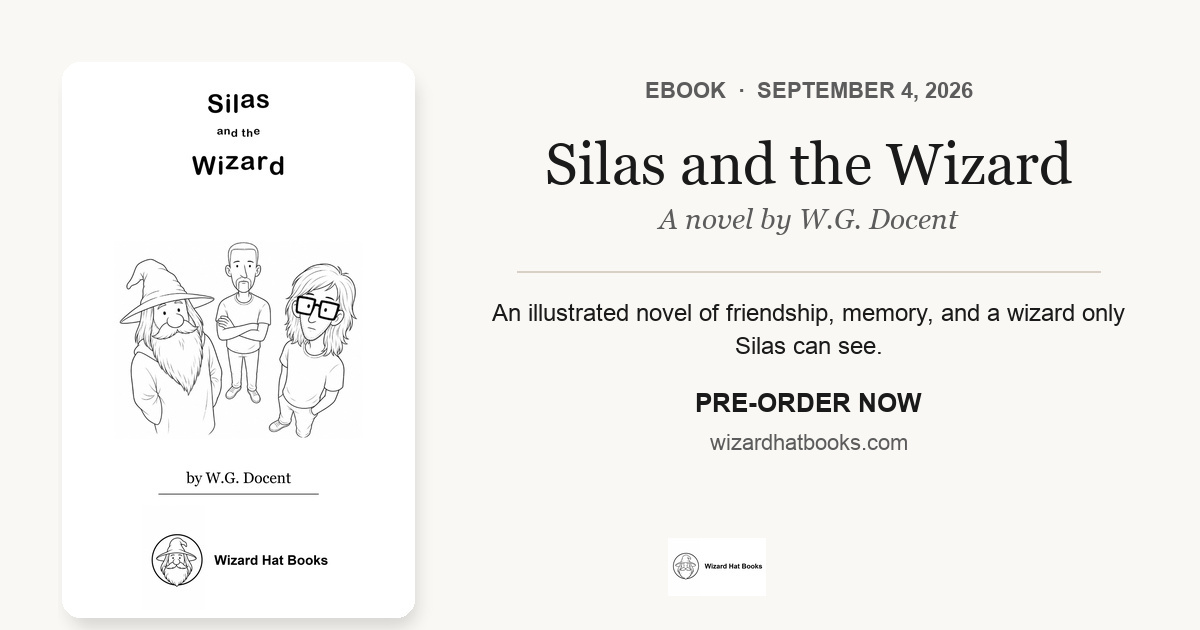
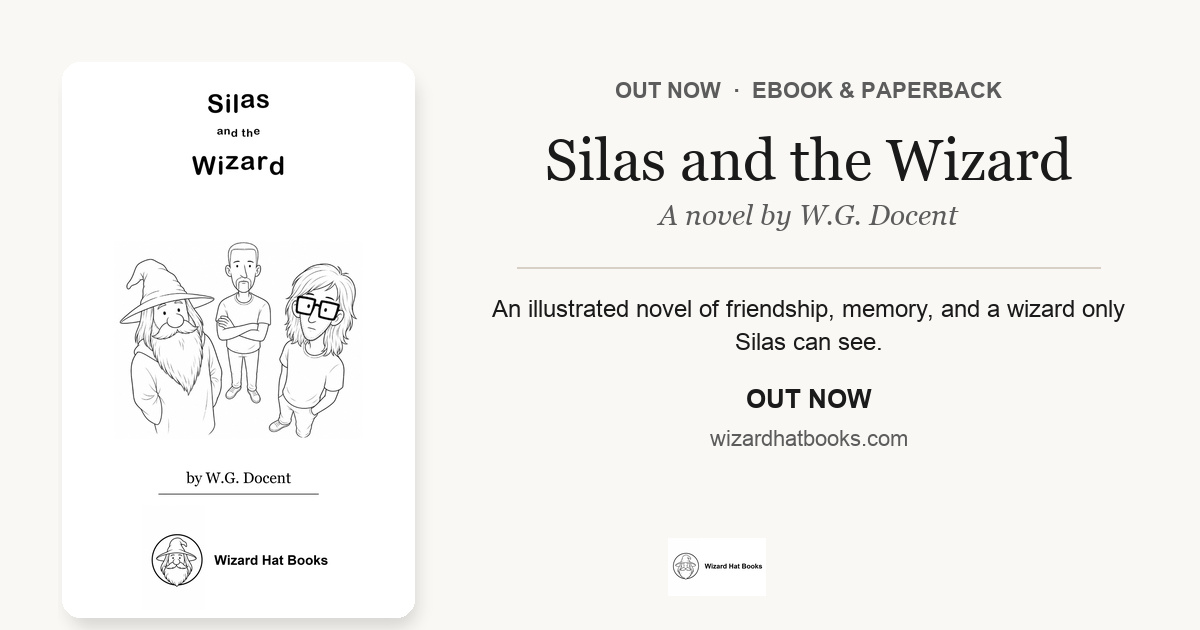
Update the site for the live ebook and paperback.

diff --git a/book.html b/book.html
@@ -3,19 +3,19 @@
 <head>
   <meta charset="UTF-8">
   <meta name="viewport" content="width=device-width, initial-scale=1.0">
-  <title>Silas and the Wizard — ebook September 4, 2026</title>
-  <meta name="description" content="Silas and the Wizard: illustrated literary fiction by W.G. Docent. Ebook September 4, 2026. Pre-order now on Amazon.">
+  <title>Silas and the Wizard — out now</title>
+  <meta name="description" content="Silas and the Wizard: illustrated literary fiction by W.G. Docent. Ebook and paperback out now on Amazon.">
   <link rel="canonical" href="https://www.wizardhatbooks.com/book.html">
-  <meta property="og:title" content="Silas and the Wizard — ebook September 4, 2026">
-  <meta property="og:description" content="An illustrated novel by W.G. Docent. Ebook September 4, 2026. Pre-order now.">
+  <meta property="og:title" content="Silas and the Wizard — out now">
+  <meta property="og:description" content="An illustrated novel by W.G. Docent. Ebook and paperback out now on Amazon.">
   <meta property="og:image" content="https://www.wizardhatbooks.com/assets/og-image.jpg">
   <meta property="og:url" content="https://www.wizardhatbooks.com/book.html">
   <meta property="og:site_name" content="Wizard Hat Books">
   <meta property="og:type" content="book">
   <meta property="og:locale" content="en_US">
   <meta name="twitter:card" content="summary_large_image">
-  <meta name="twitter:title" content="Silas and the Wizard — ebook September 4, 2026">
-  <meta name="twitter:description" content="An illustrated novel by W.G. Docent. Ebook September 4, 2026. Pre-order now.">
+  <meta name="twitter:title" content="Silas and the Wizard — out now">
+  <meta name="twitter:description" content="An illustrated novel by W.G. Docent. Ebook and paperback out now on Amazon.">
   <meta name="twitter:image" content="https://www.wizardhatbooks.com/assets/og-image.jpg">
   <link rel="icon" href="assets/favicon.png" type="image/png">
   <link rel="alternate" type="application/rss+xml" title="Wizard Hat Books" href="https://www.wizardhatbooks.com/feed.xml">
@@ -41,7 +41,8 @@
       "LGBT+ fiction",
       "Humor"
     ],
-    "bookFormat": "https://schema.org/EBook",
+    "isbn": "979-8-9971247-0-0",
+    "bookFormat": "https://schema.org/Paperback",
     "inLanguage": "en",
     "image": "https://www.wizardhatbooks.com/assets/cover.jpg",
     "datePublished": "2026-09-04",
@@ -51,13 +52,15 @@
       {
         "@type": "Book",
         "bookFormat": "https://schema.org/EBook",
-        "availability": "https://schema.org/PreOrder",
+        "availability": "https://schema.org/InStock",
         "url": "https://a.co/d/0j0g4wAm"
       },
       {
         "@type": "Book",
         "bookFormat": "https://schema.org/Paperback",
-        "availability": "https://schema.org/PreOrder"
+        "isbn": "979-8-9971247-0-0",
+        "availability": "https://schema.org/InStock",
+        "url": "https://www.amazon.com/dp/B0HGTQZ63H"
       }
     ]
   }
@@ -65,8 +68,10 @@
 </head>
 <body>
   <div class="launch-banner">
-    Ebook <strong>September 4, 2026</strong> ·
-    <a data-preorder href="https://a.co/d/0j0g4wAm" target="_blank" rel="noopener noreferrer">Pre-order the ebook</a>
+    Out now · ebook and paperback ·
+    <a data-ebook href="https://a.co/d/0j0g4wAm" target="_blank" rel="noopener noreferrer">Buy the ebook</a>
+    ·
+    <a data-paperback href="https://www.amazon.com/dp/B0HGTQZ63H" target="_blank" rel="noopener noreferrer">Buy the paperback</a>
   </div>
   <header class="site-header">
     <div class="header-inner">
@@ -104,12 +109,13 @@
             <p class="content-note-label">Content Note</p>
             <p>This is not a children's fantasy. Silas is a raw, adult coming-of-age story about childhood trauma and identity — including loss of a loved one (Wallace), abuse, bullying, abandonment, trust issues, gay relationships, and questions about death, religion, and life. Wizard is Silas's imaginary friend and guide, the one constant presence he can talk to as he tries to make sense of it all.</p>
           </aside>
-          <a class="preorder-graphic" data-preorder href="https://a.co/d/0j0g4wAm" target="_blank" rel="noopener noreferrer">
-            <img src="assets/launch-graphic.jpg" alt="Silas and the Wizard ebook, September 4, 2026. Pre-order now. A novel by W.G. Docent.">
+          <a class="preorder-graphic" data-ebook href="https://a.co/d/0j0g4wAm" target="_blank" rel="noopener noreferrer">
+            <img src="assets/launch-graphic.jpg" alt="Silas and the Wizard, out now as an ebook and paperback. A novel by W.G. Docent.">
           </a>
         </div>
         <div class="button-row preorder-actions">
-          <a class="button button-primary" data-preorder href="https://a.co/d/0j0g4wAm" target="_blank" rel="noopener noreferrer">Pre-order the ebook</a>
+          <a class="button button-primary" data-ebook href="https://a.co/d/0j0g4wAm" target="_blank" rel="noopener noreferrer">Buy the ebook</a>
+          <a class="button button-secondary" data-paperback href="https://www.amazon.com/dp/B0HGTQZ63H" target="_blank" rel="noopener noreferrer">Buy the paperback</a>
         </div>
       </div>
     </section>
@@ -120,7 +126,7 @@
           <img src="assets/cover.jpg" alt="Cover of Silas and the Wizard">
         </div>
         <div>
-          <p class="eyebrow">Illustrated novel · Ebook September 4, 2026</p>
+          <p class="eyebrow">Illustrated novel · Out now</p>
           <h1>Silas and the Wizard</h1>
           <p class="lead">
             Silas has had a life, and not all of it has been kind. He thinks constantly —
@@ -140,11 +146,11 @@
             </div>
             <div>
               <dt>Release</dt>
-              <dd>Ebook September 4, 2026 · Pre-order now</dd>
+              <dd>Out now · September 4, 2026</dd>
             </div>
             <div>
               <dt>Format</dt>
-              <dd>Illustrated ebook, with paperback to follow</dd>
+              <dd>Illustrated ebook and paperback</dd>
             </div>
             <div>
               <dt>Genre</dt>
@@ -152,8 +158,9 @@
             </div>
           </dl>
           <div class="button-row">
-            <a class="button button-primary" data-preorder href="https://a.co/d/0j0g4wAm" target="_blank" rel="noopener noreferrer">Pre-order the ebook</a>
-            <a class="button button-secondary" href="contact.html#subscribe">Get release updates</a>
+            <a class="button button-primary" data-ebook href="https://a.co/d/0j0g4wAm" target="_blank" rel="noopener noreferrer">Buy the ebook</a>
+            <a class="button button-secondary" data-paperback href="https://www.amazon.com/dp/B0HGTQZ63H" target="_blank" rel="noopener noreferrer">Buy the paperback</a>
+            <a class="button button-secondary" href="contact.html#subscribe">Get updates</a>
           </div>
         </div>
       </div>

diff --git a/index.html b/index.html
@@ -4,18 +4,18 @@
   <meta charset="UTF-8">
   <meta name="viewport" content="width=device-width, initial-scale=1.0">
   <title>W.G. Docent | Silas and the Wizard — Wizard Hat Books</title>
-  <meta name="description" content="Silas and the Wizard, an illustrated novel by W.G. Docent. Ebook September 4, 2026. Pre-order now on Amazon.">
+  <meta name="description" content="Silas and the Wizard, an illustrated novel by W.G. Docent. Ebook and paperback out now on Amazon.">
   <link rel="canonical" href="https://www.wizardhatbooks.com/">
-  <meta property="og:title" content="Silas and the Wizard — ebook September 4, 2026">
-  <meta property="og:description" content="An illustrated novel of magical realism, LGBT+ fiction, humor, and a wizard only Silas can see. Pre-order now.">
+  <meta property="og:title" content="Silas and the Wizard — out now">
+  <meta property="og:description" content="An illustrated novel of magical realism, LGBT+ fiction, humor, and a wizard only Silas can see. Ebook and paperback out now.">
   <meta property="og:image" content="https://www.wizardhatbooks.com/assets/og-image.jpg">
   <meta property="og:url" content="https://www.wizardhatbooks.com/">
   <meta property="og:site_name" content="Wizard Hat Books">
   <meta property="og:type" content="website">
   <meta property="og:locale" content="en_US">
   <meta name="twitter:card" content="summary_large_image">
-  <meta name="twitter:title" content="Silas and the Wizard — ebook September 4, 2026">
-  <meta name="twitter:description" content="An illustrated novel of magical realism, LGBT+ fiction, humor, and a wizard only Silas can see. Pre-order now.">
+  <meta name="twitter:title" content="Silas and the Wizard — out now">
+  <meta name="twitter:description" content="An illustrated novel of magical realism, LGBT+ fiction, humor, and a wizard only Silas can see. Ebook and paperback out now.">
   <meta name="twitter:image" content="https://www.wizardhatbooks.com/assets/og-image.jpg">
   <!-- Google Search Console: paste verification meta tag from search.google.com/search-console -->
   <link rel="icon" href="assets/favicon.png" type="image/png">
@@ -55,8 +55,10 @@
 </head>
 <body>
   <div class="launch-banner">
-    Ebook <strong>September 4, 2026</strong> ·
-    <a data-preorder href="https://a.co/d/0j0g4wAm" target="_blank" rel="noopener noreferrer">Pre-order the ebook</a>
+    Out now · ebook and paperback ·
+    <a data-ebook href="https://a.co/d/0j0g4wAm" target="_blank" rel="noopener noreferrer">Buy the ebook</a>
+    ·
+    <a data-paperback href="https://www.amazon.com/dp/B0HGTQZ63H" target="_blank" rel="noopener noreferrer">Buy the paperback</a>
   </div>
   <header class="site-header">
     <div class="header-inner">
@@ -94,12 +96,13 @@
             <p class="content-note-label">Content Note</p>
             <p>This is not a children's fantasy. Silas is a raw, adult coming-of-age story about childhood trauma and identity — including loss of a loved one (Wallace), abuse, bullying, abandonment, trust issues, gay relationships, and questions about death, religion, and life. Wizard is Silas's imaginary friend and guide, the one constant presence he can talk to as he tries to make sense of it all.</p>
           </aside>
-          <a class="preorder-graphic" data-preorder href="https://a.co/d/0j0g4wAm" target="_blank" rel="noopener noreferrer">
-            <img src="assets/launch-graphic.jpg" alt="Silas and the Wizard ebook, September 4, 2026. Pre-order now. A novel by W.G. Docent.">
+          <a class="preorder-graphic" data-ebook href="https://a.co/d/0j0g4wAm" target="_blank" rel="noopener noreferrer">
+            <img src="assets/launch-graphic.jpg" alt="Silas and the Wizard, out now as an ebook and paperback. A novel by W.G. Docent.">
           </a>
         </div>
         <div class="button-row preorder-actions">
-          <a class="button button-primary" data-preorder href="https://a.co/d/0j0g4wAm" target="_blank" rel="noopener noreferrer">Pre-order the ebook</a>
+          <a class="button button-primary" data-ebook href="https://a.co/d/0j0g4wAm" target="_blank" rel="noopener noreferrer">Buy the ebook</a>
+          <a class="button button-secondary" data-paperback href="https://www.amazon.com/dp/B0HGTQZ63H" target="_blank" rel="noopener noreferrer">Buy the paperback</a>
           <a class="button button-secondary" href="book.html">Explore the book</a>
         </div>
       </div>
@@ -111,7 +114,7 @@
           <h2>Follow along</h2>
           <p>
             Join WG Docent on social media for illustrations, excerpts, and notes from
-            <em>Silas and the Wizard</em>. Sign up for release updates so you don't miss the launch.
+            <em>Silas and the Wizard</em>. Sign up for occasional news from Wizard Hat Books.
           </p>
         </div>
         <div class="connect-banner-actions">
@@ -145,8 +148,8 @@
             a couple of cats with very strong opinions.
           </p>
           <div class="button-row">
-            <a class="button button-primary" data-preorder href="https://a.co/d/0j0g4wAm" target="_blank" rel="noopener noreferrer">Pre-order the ebook</a>
-            <a class="button button-secondary" href="contact.html#subscribe">Get updates</a>
+            <a class="button button-primary" data-ebook href="https://a.co/d/0j0g4wAm" target="_blank" rel="noopener noreferrer">Buy the ebook</a>
+            <a class="button button-secondary" data-paperback href="https://www.amazon.com/dp/B0HGTQZ63H" target="_blank" rel="noopener noreferrer">Buy the paperback</a>
             <a class="button button-secondary" href="about.html">About the author</a>
           </div>
         </div>
@@ -178,10 +181,10 @@
               that keeps the focus on the characters and the moment.</p>
           </article>
           <article class="feature-card">
-            <h3>Ebook launch</h3>
-            <p><em>Silas and the Wizard</em> — the first Wizard Hat Books title — arrives as an
-              ebook on <strong>September 4, 2026</strong>. <a data-preorder href="https://a.co/d/0j0g4wAm" target="_blank" rel="noopener noreferrer">Pre-order the ebook</a>,
-              with paperback to follow. <a href="contact.html#subscribe">Get updates</a> on the launch.</p>
+            <h3>Out now</h3>
+            <p><em>Silas and the Wizard</em> — the first Wizard Hat Books title — is available as an
+              ebook and paperback. <a data-ebook href="https://a.co/d/0j0g4wAm" target="_blank" rel="noopener noreferrer">Buy the ebook</a>
+              or <a data-paperback href="https://www.amazon.com/dp/B0HGTQZ63H" target="_blank" rel="noopener noreferrer">buy the paperback</a> on Amazon.</p>
           </article>
         </div>
       </div>

diff --git a/contact.html b/contact.html
@@ -4,10 +4,10 @@
   <meta charset="UTF-8">
   <meta name="viewport" content="width=device-width, initial-scale=1.0">
   <title>Release Updates — Silas and the Wizard | WG Docent</title>
-  <meta name="description" content="Subscribe for launch news on Silas and the Wizard by WG Docent. Follow on Instagram, Facebook, and TikTok.">
+  <meta name="description" content="Subscribe for news on Silas and the Wizard by WG Docent. Follow on Instagram, Facebook, and TikTok.">
   <link rel="canonical" href="https://www.wizardhatbooks.com/contact.html">
   <meta property="og:title" content="Release Updates — Silas and the Wizard | WG Docent">
-  <meta property="og:description" content="Subscribe for launch news on Silas and the Wizard by WG Docent. Follow on Instagram, Facebook, and TikTok.">
+  <meta property="og:description" content="Subscribe for news on Silas and the Wizard by WG Docent. Follow on Instagram, Facebook, and TikTok.">
   <meta property="og:image" content="https://www.wizardhatbooks.com/assets/og-image.jpg">
   <meta property="og:url" content="https://www.wizardhatbooks.com/contact.html">
   <meta property="og:site_name" content="Wizard Hat Books">
@@ -15,7 +15,7 @@
   <meta property="og:locale" content="en_US">
   <meta name="twitter:card" content="summary_large_image">
   <meta name="twitter:title" content="Release Updates — Silas and the Wizard | WG Docent">
-  <meta name="twitter:description" content="Subscribe for launch news on Silas and the Wizard by WG Docent. Follow on Instagram, Facebook, and TikTok.">
+  <meta name="twitter:description" content="Subscribe for news on Silas and the Wizard by WG Docent. Follow on Instagram, Facebook, and TikTok.">
   <meta name="twitter:image" content="https://www.wizardhatbooks.com/assets/og-image.jpg">
   <link rel="icon" href="assets/favicon.png" type="image/png">
   <link rel="alternate" type="application/rss+xml" title="Wizard Hat Books" href="https://www.wizardhatbooks.com/feed.xml">
@@ -23,8 +23,10 @@
 </head>
 <body>
   <div class="launch-banner">
-    Ebook <strong>September 4, 2026</strong> ·
-    <a data-preorder href="https://a.co/d/0j0g4wAm" target="_blank" rel="noopener noreferrer">Pre-order the ebook</a>
+    Out now · ebook and paperback ·
+    <a data-ebook href="https://a.co/d/0j0g4wAm" target="_blank" rel="noopener noreferrer">Buy the ebook</a>
+    ·
+    <a data-paperback href="https://www.amazon.com/dp/B0HGTQZ63H" target="_blank" rel="noopener noreferrer">Buy the paperback</a>
   </div>
   <header class="site-header">
     <div class="header-inner">
@@ -61,8 +63,9 @@
         <h1>Release updates</h1>
         <p class="lead">
           Subscribe for occasional news about <em>Silas and the Wizard</em> and other notes from WG Docent.
-          The ebook is out <strong>September 4, 2026</strong>.
-          <a data-preorder href="https://a.co/d/0j0g4wAm" target="_blank" rel="noopener noreferrer">Pre-order it now</a>.
+          The ebook and paperback are out now.
+          <a data-ebook href="https://a.co/d/0j0g4wAm" target="_blank" rel="noopener noreferrer">Buy the ebook</a>
+          or <a data-paperback href="https://www.amazon.com/dp/B0HGTQZ63H" target="_blank" rel="noopener noreferrer">buy the paperback</a>.
         </p>
 
         <div class="contact-embed" id="subscribe">

diff --git a/js/main.js b/js/main.js
@@ -3,38 +3,25 @@ if (year) {
   year.textContent = String(new Date().getFullYear());
 }
 
-// Paste the Amazon KDP pre-order URL here when it is live.
-const PREORDER_URL = "https://a.co/d/0j0g4wAm";
-const PREORDER_LABEL_SOON = "Pre-order coming soon";
-const PREORDER_LABEL_LIVE = "Pre-order the ebook";
+const EBOOK_URL = "https://a.co/d/0j0g4wAm";
+const PAPERBACK_URL = "https://www.amazon.com/dp/B0HGTQZ63H";
+const EBOOK_LABEL = "Buy the ebook";
+const PAPERBACK_LABEL = "Buy the paperback";
 
-function setupPreorder() {
-  const ready = Boolean(PREORDER_URL && PREORDER_URL.trim());
-  document.querySelectorAll("[data-preorder]").forEach((el) => {
-    if (ready) {
-      el.setAttribute("href", PREORDER_URL);
-      el.removeAttribute("aria-disabled");
-      el.setAttribute("target", "_blank");
-      el.setAttribute("rel", "noopener noreferrer");
-      if (el.classList.contains("button")) {
-        el.textContent = PREORDER_LABEL_LIVE;
-      }
-      return;
-    }
-
-    el.setAttribute("aria-disabled", "true");
+function setupBuyLinks(selector, url, buttonLabel) {
+  document.querySelectorAll(selector).forEach((el) => {
+    el.setAttribute("href", url);
+    el.removeAttribute("aria-disabled");
+    el.setAttribute("target", "_blank");
+    el.setAttribute("rel", "noopener noreferrer");
     if (el.classList.contains("button")) {
-      el.textContent = PREORDER_LABEL_SOON;
+      el.textContent = buttonLabel;
     }
-    el.addEventListener("click", (event) => {
-      if (el.classList.contains("preorder-graphic")) {
-        event.preventDefault();
-      }
-    });
   });
 }
 
-setupPreorder();
+setupBuyLinks("[data-ebook]", EBOOK_URL, EBOOK_LABEL);
+setupBuyLinks("[data-paperback]", PAPERBACK_URL, PAPERBACK_LABEL);
 
 (function initSubscribeEmbed() {
   const embed = document.querySelector(".contact-embed");

diff --git a/gallery.html b/gallery.html
@@ -23,8 +23,10 @@
 </head>
 <body>
   <div class="launch-banner">
-    Ebook <strong>September 4, 2026</strong> ·
-    <a data-preorder href="https://a.co/d/0j0g4wAm" target="_blank" rel="noopener noreferrer">Pre-order the ebook</a>
+    Out now · ebook and paperback ·
+    <a data-ebook href="https://a.co/d/0j0g4wAm" target="_blank" rel="noopener noreferrer">Buy the ebook</a>
+    ·
+    <a data-paperback href="https://www.amazon.com/dp/B0HGTQZ63H" target="_blank" rel="noopener noreferrer">Buy the paperback</a>
   </div>
   <header class="site-header">
     <div class="header-inner">
@@ -113,7 +115,7 @@
         </div>
         <p class="gallery-footer-note">
           Read more about the book on the <a href="book.html">book page</a>, or
-          <a href="contact.html#subscribe">sign up for updates</a> when <em>Silas and the Wizard</em> launches.
+          <a href="contact.html#subscribe">sign up for updates</a>.
         </p>
       </div>
     </section>

diff --git a/about.html b/about.html
@@ -52,8 +52,10 @@
 </head>
 <body>
   <div class="launch-banner">
-    Ebook <strong>September 4, 2026</strong> ·
-    <a data-preorder href="https://a.co/d/0j0g4wAm" target="_blank" rel="noopener noreferrer">Pre-order the ebook</a>
+    Out now · ebook and paperback ·
+    <a data-ebook href="https://a.co/d/0j0g4wAm" target="_blank" rel="noopener noreferrer">Buy the ebook</a>
+    ·
+    <a data-paperback href="https://www.amazon.com/dp/B0HGTQZ63H" target="_blank" rel="noopener noreferrer">Buy the paperback</a>
   </div>
   <header class="site-header">
     <div class="header-inner">

diff --git a/css/style.css b/css/style.css
@@ -97,6 +97,7 @@ a {
   font-family: "Helvetica Neue", Arial, sans-serif;
   font-size: 0.92rem;
   letter-spacing: 0.02em;
+  line-height: 1.55;
 }
 
 .launch-banner a {
